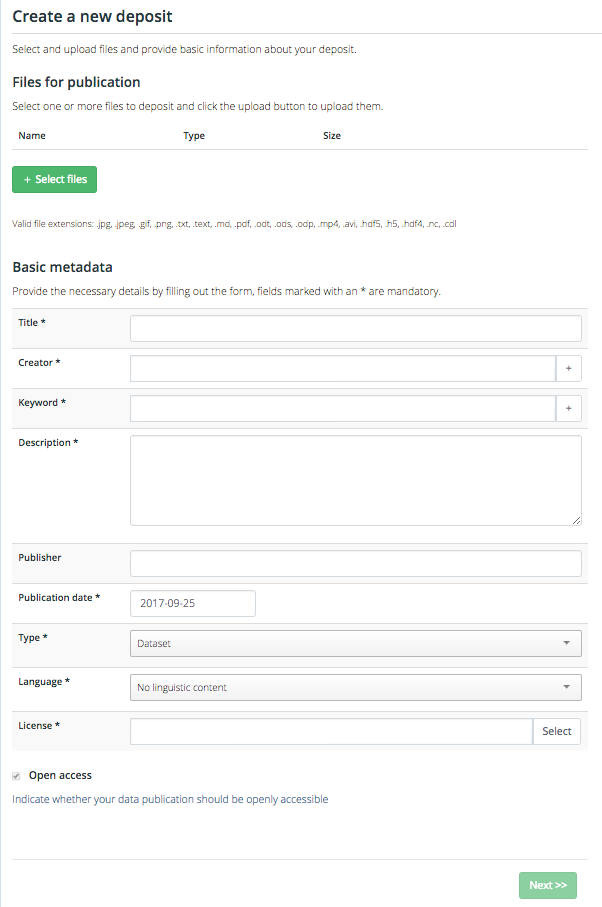
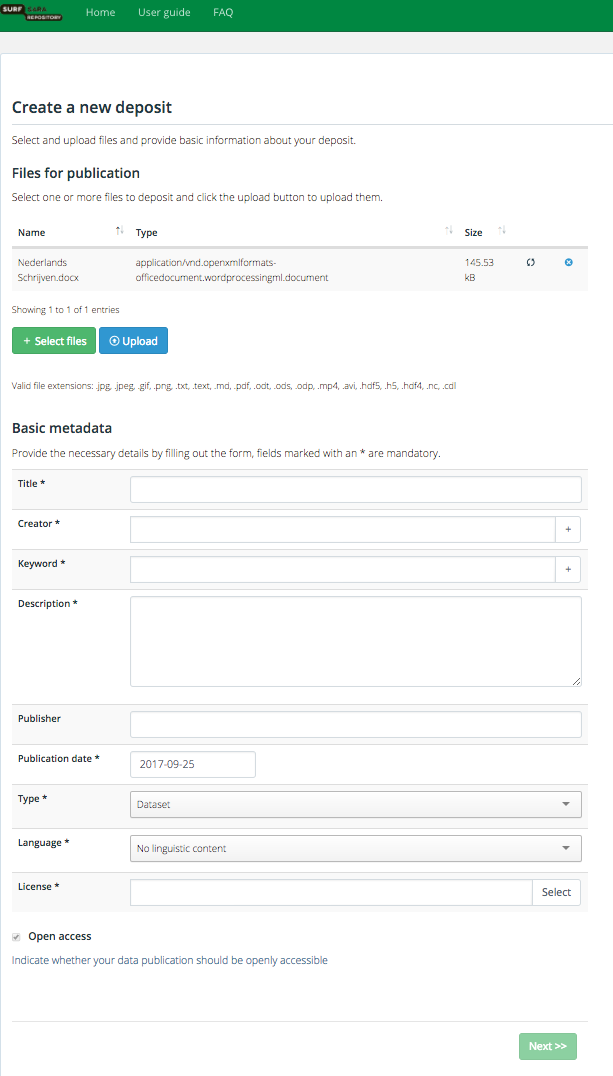
Add license selector image

diff --git a/source/Pages/Basics/basic_usage.rst b/source/Pages/Basics/basic_usage.rst
@@ -36,7 +36,7 @@ After you login to your account, you will be redirected to your homepage where y
 
 On the right you can see the latest deposits and collections that are uploaded on the data repository.	
 
-.. image:: ../Screenshots/homepage.png
+ .. image:: ../Screenshots/homepage.png
    :align: center
 
 
@@ -66,9 +66,12 @@ Deposit is the act of uploading data to the Data Repository. Only registered use
 
  Then provide the basic metadata for your file such as Title, Creator, keywords (for searching purposes) and Description. The fields with a * are mandatory fields.
 
- In this step you should also select the type of data and language of the data and a license for ypublication. The license can be selected through a built-in wizard. If you are not sure which license to choose, answer the questions on the top of the built-in wizard form to find the appropriate license. If your data is completely open to the public, no license is needed and this field can be skipped.
-
  .. image:: ../Screenshots/deposit1.png
+   :align: center
+
+In this step you should also select the type of data and language of the data and a license for ypublication. The license can be selected through a built-in wizard. If you are not sure which license to choose, answer the questions on the top of the built-in wizard form to find the appropriate license. If your data is completely open to the public, no license is needed and this field can be skipped.
+
+ .. image:: ../Screenshots/license.png
    :align: center
 
 
@@ -90,7 +93,7 @@ Search data
 To search for data use the search functionality on the home page. The text entered can be part of a title, keyword, abstract or any other metadata. 
 Both registered and unregistered users can search for data. Unregistered users can only search for data sets that are publicly accessible.
 
-.. image:: ../Screenshots/find_data.png
+ .. image:: ../Screenshots/find_data.png
    :align: center
 
 
